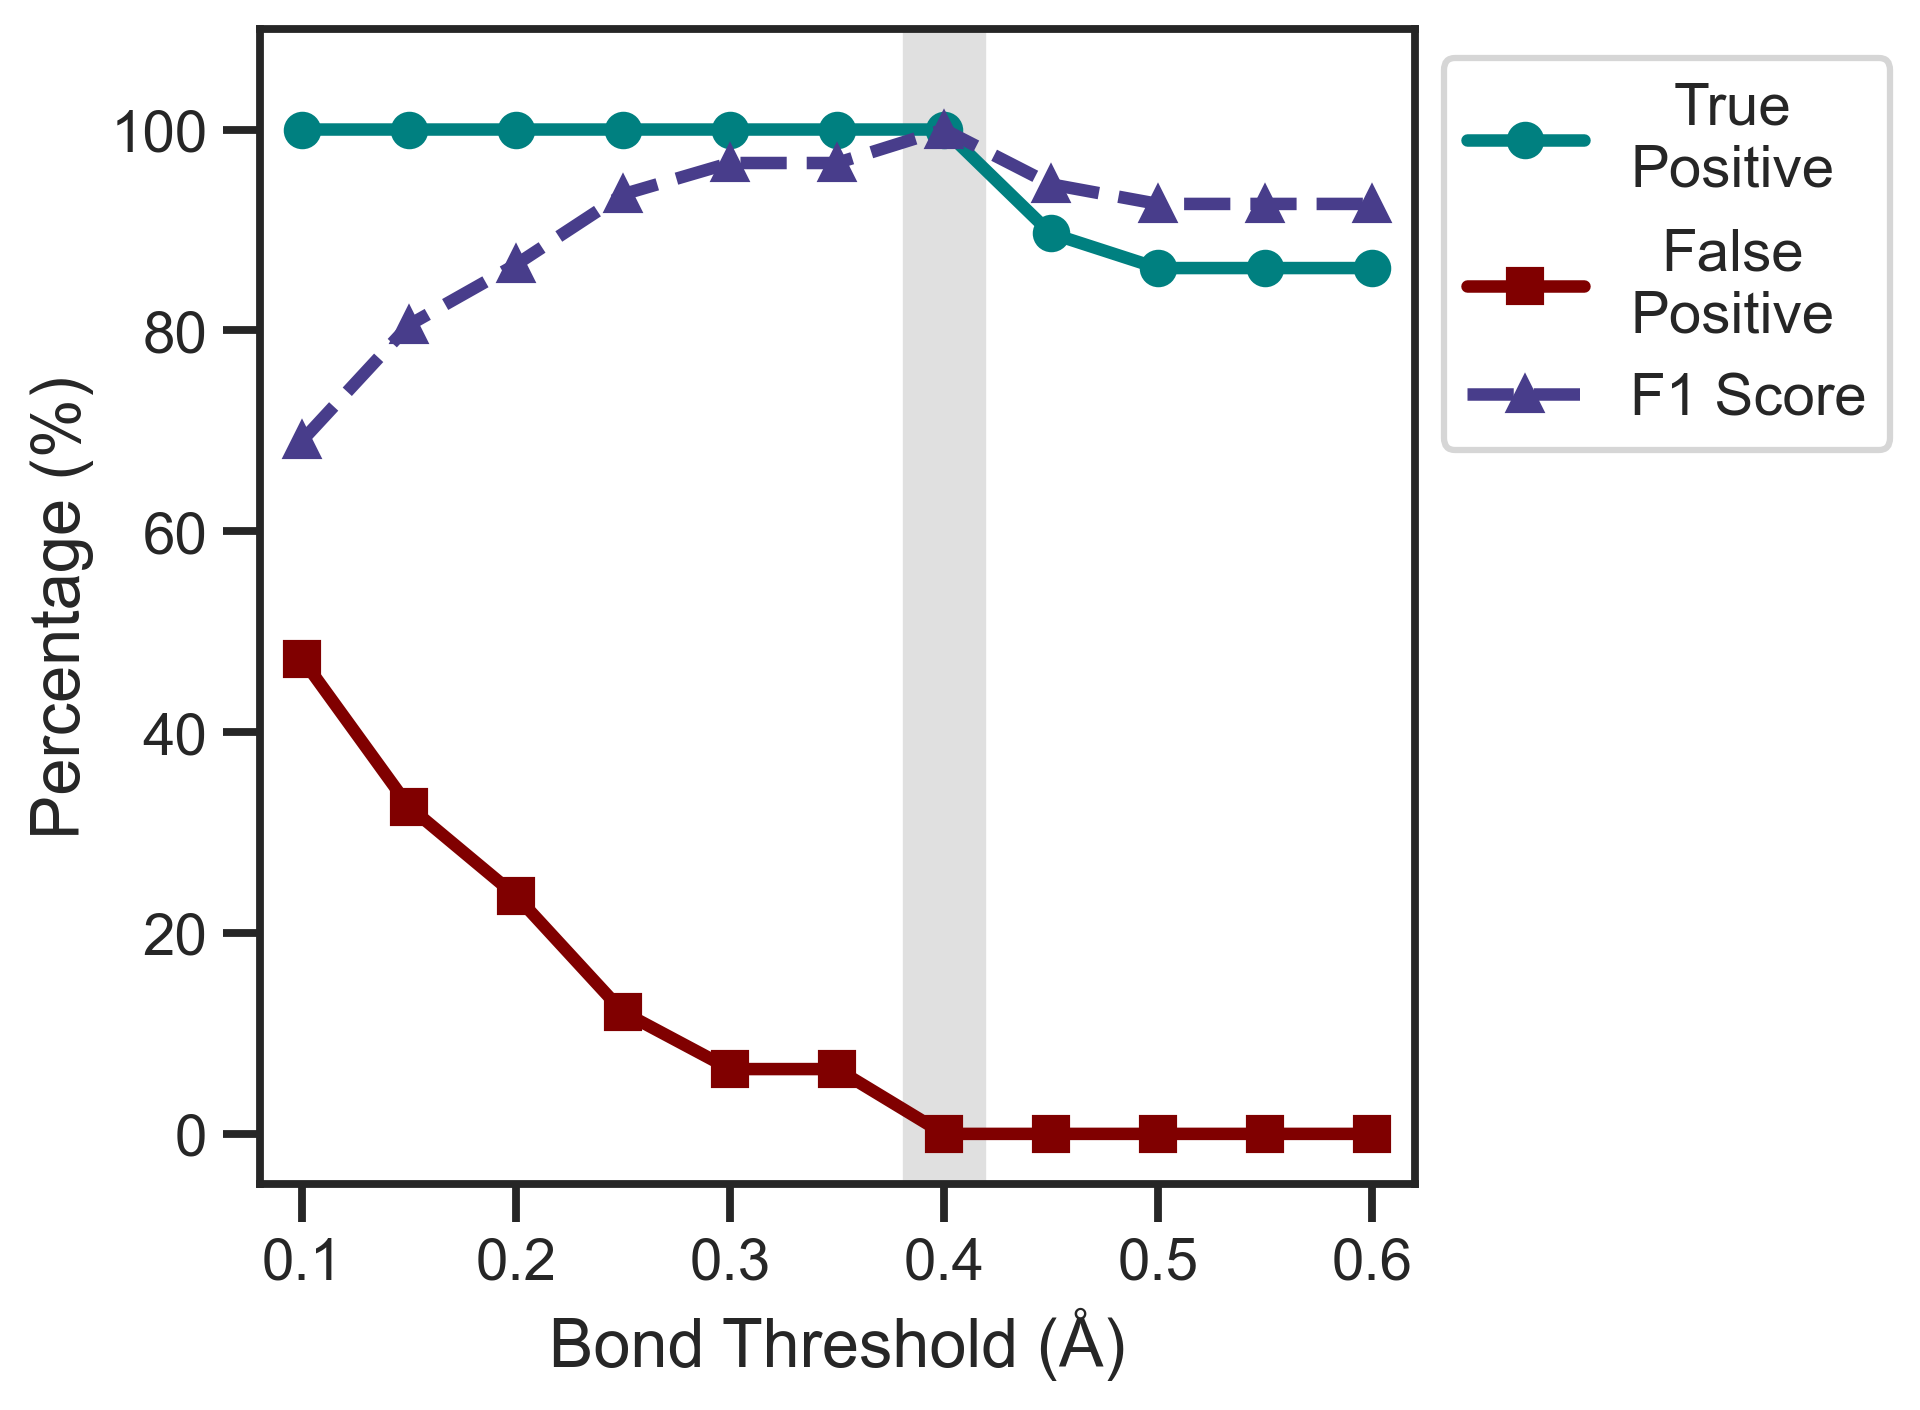
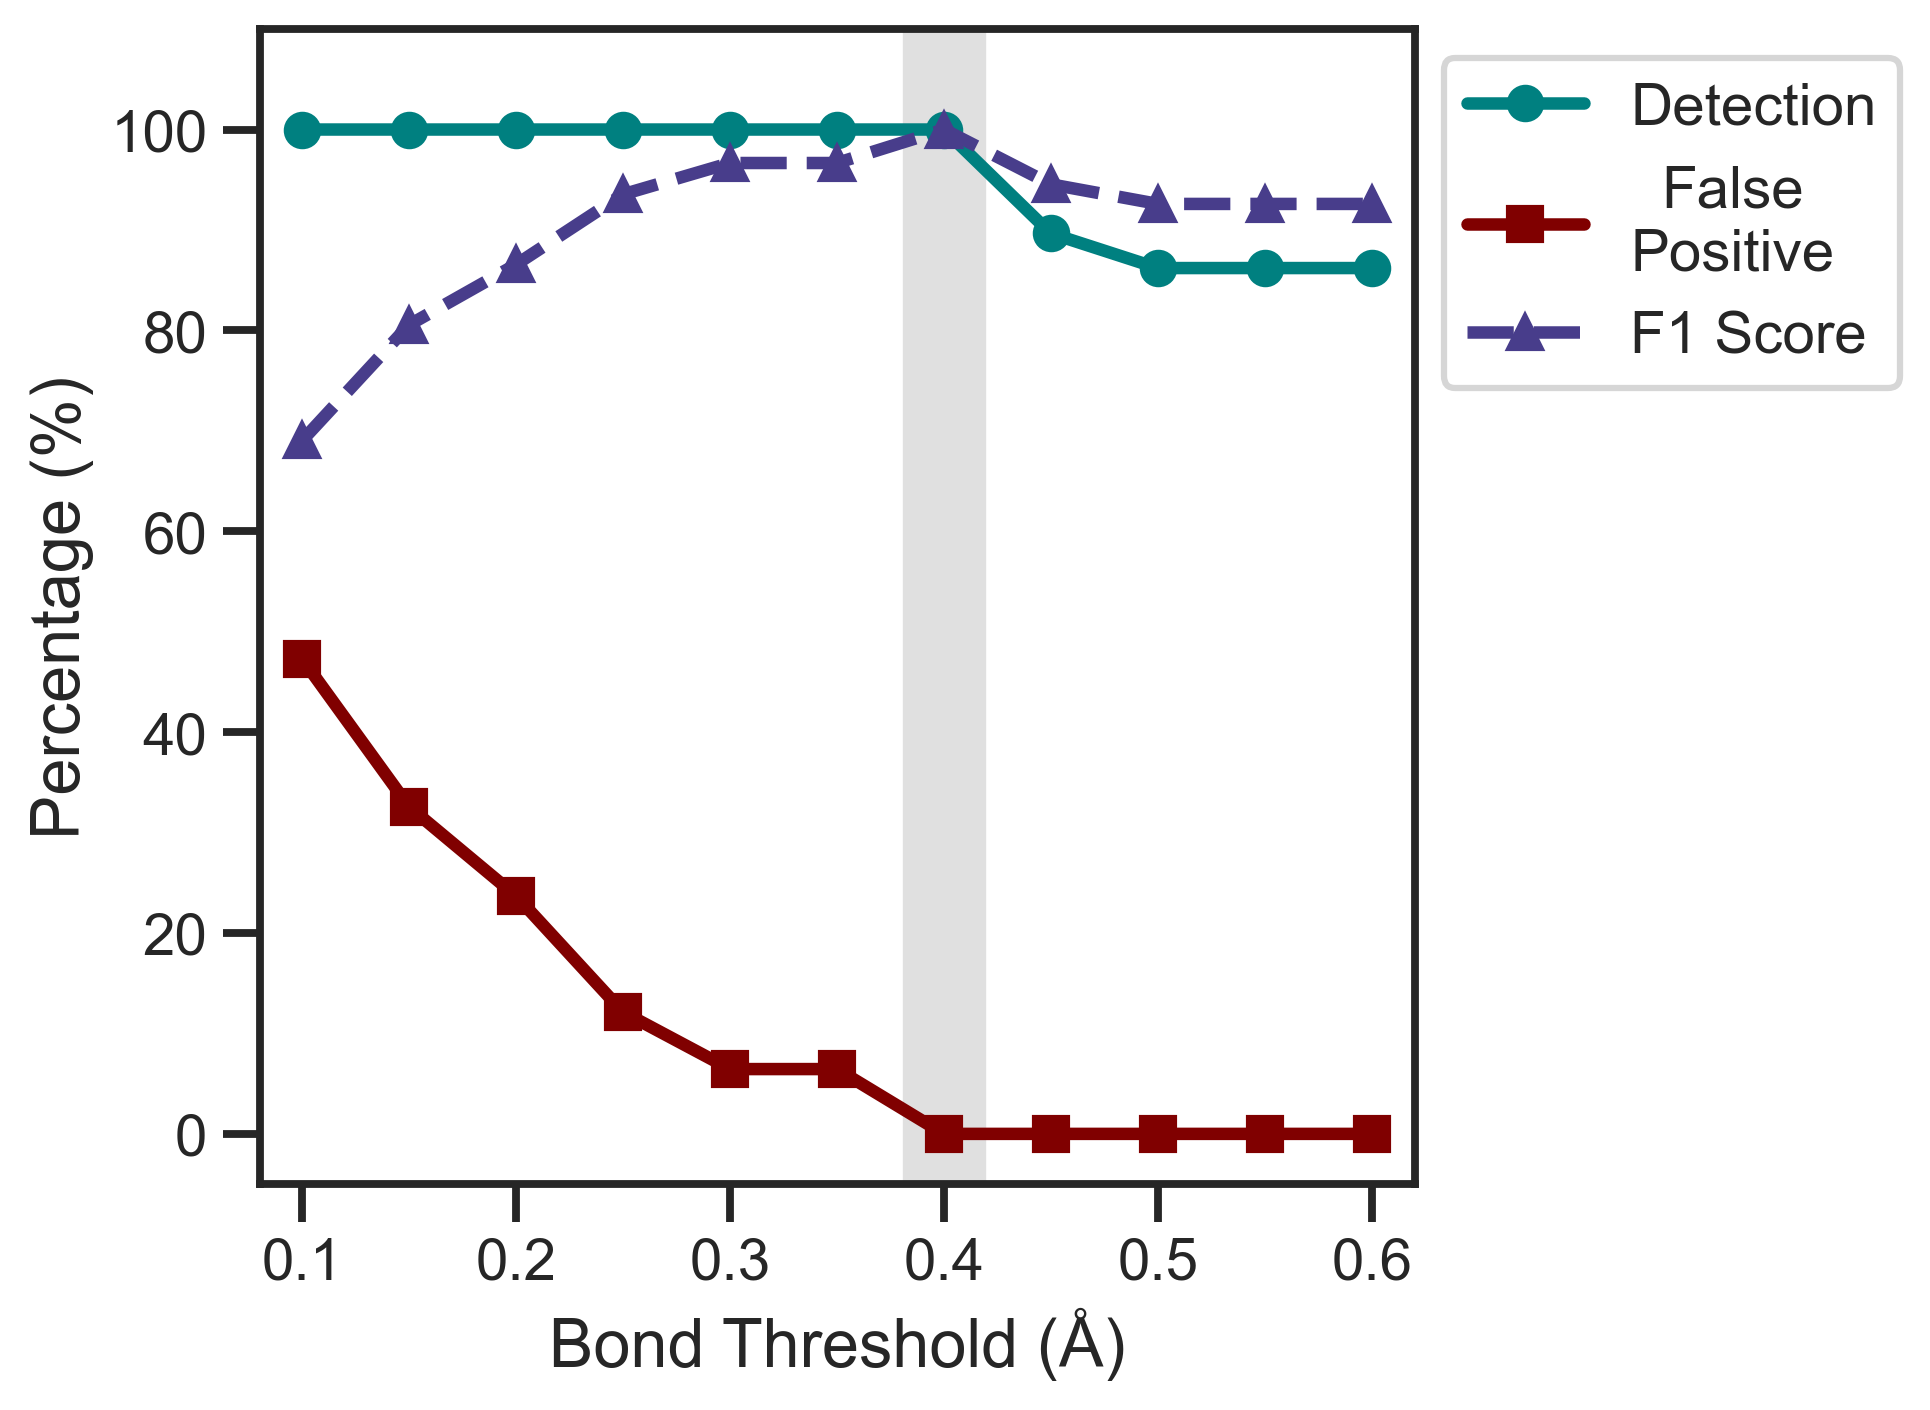
updated graph

diff --git a/examples/threshold_tuning.py b/examples/threshold_tuning.py
@@ -240,7 +240,7 @@ def plot_threshold_results(sweep_results: Dict[float, Dict], output_dir: Path):
     fig, ax = plt.subplots(figsize=(5,5))
     
     # Plot lines with markers using custom color ordering
-    ax.plot(thresholds, detection_rates, marker='o', linewidth=3, markersize=8, label='True\nPositive', color='teal')
+    ax.plot(thresholds, detection_rates, marker='o', linewidth=3, markersize=8, label='Detection', color='teal')
     ax.plot(thresholds, false_pos_rates, marker='s', linewidth=3, markersize=8, label='False\nPositive', color='maroon')
     ax.plot(thresholds, f1_scores, marker='^', linestyle='--', linewidth=3, markersize=8, label='F1 Score', color='darkslateblue')
     
